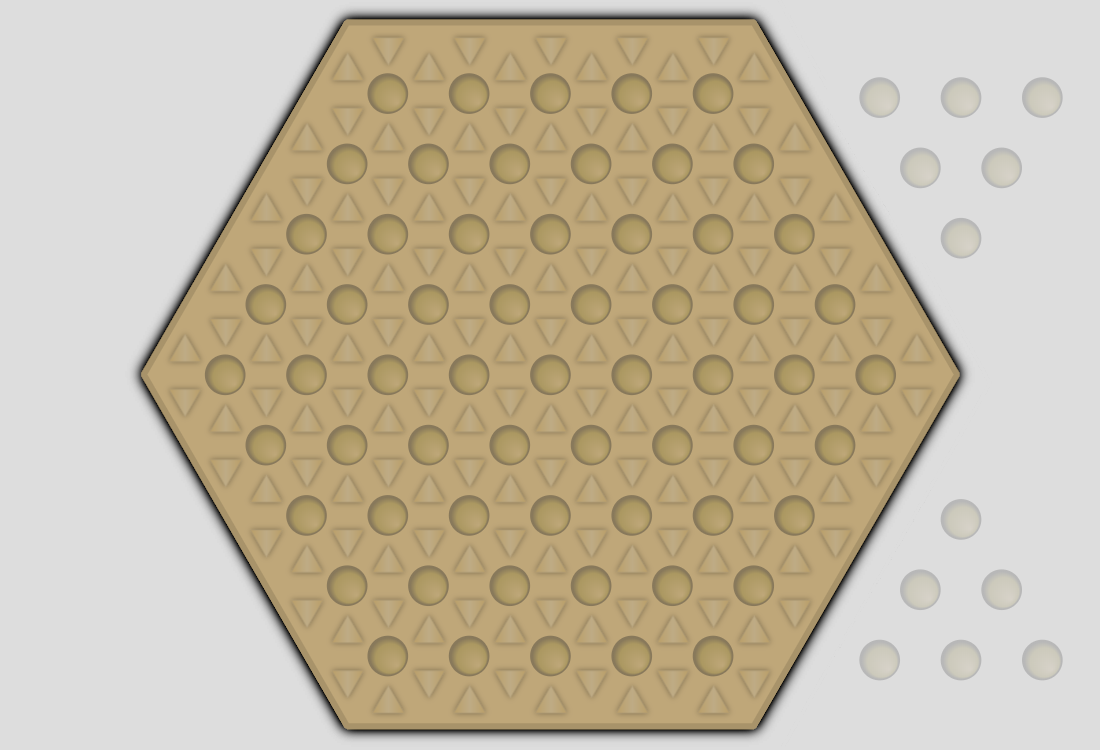
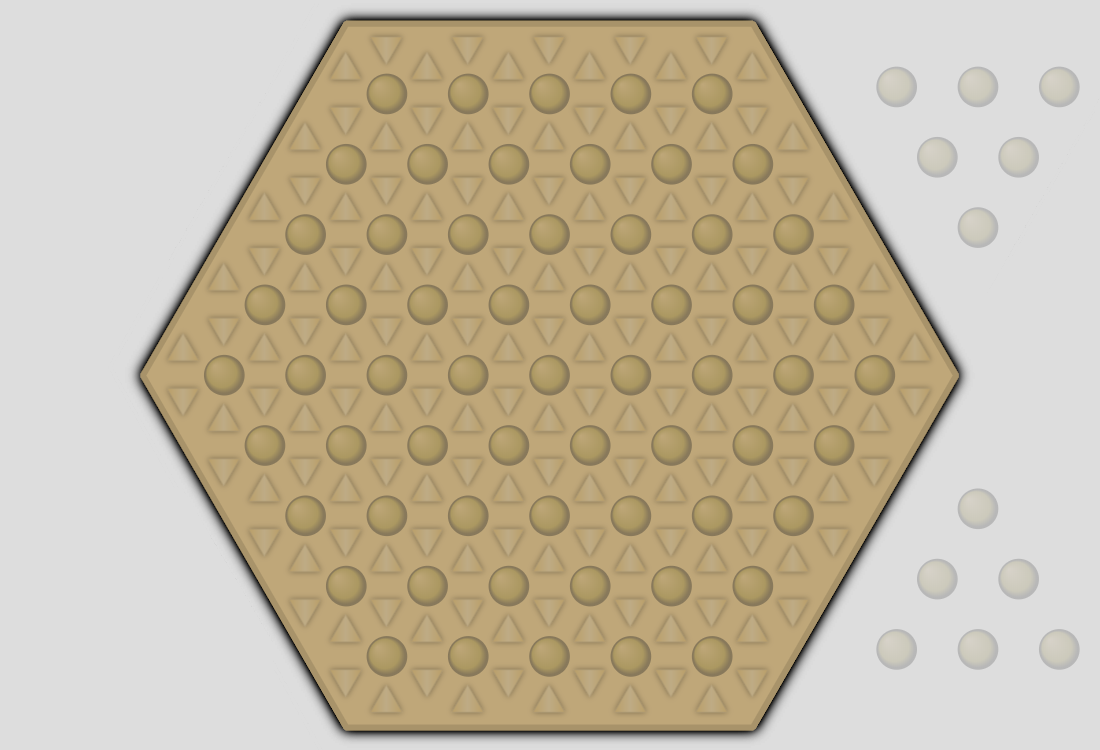
hello word pyglet and starting to fetch inital position

diff --git a/main.py b/main.py
@@ -1,6 +1,6 @@
 import pyglet
 import numpy as np
-
+from pprint import pprint
 
 class window(pyglet.window.Window):
 
@@ -22,25 +22,82 @@ class window(pyglet.window.Window):
 
         # set the background color to white
         pyglet.gl.glClearColor(1, 1, 1, 1)
-
         self.batch = pyglet.graphics.Batch()
-        self.bgs = []
 
+        # create 3 layers
+        self.background = pyglet.graphics.OrderedGroup(0)
+        self.midleground = pyglet.graphics.OrderedGroup(1)
+        self.foreground = pyglet.graphics.OrderedGroup(2)
+
+        self.sprites = []
+        board_image = pyglet.image.load('asset/board.png')
+        board_sprite = pyglet.sprite.Sprite(board_image, batch=self.batch, group=self.background)
+        self.sprites.append(board_sprite)
+
+        black_image = pyglet.image.load('asset/black.png')
+        black_sprite = pyglet.sprite.Sprite(black_image, batch=self.batch, group=self.midleground, x=0, y=0)
+        #self.sprites.append(black_sprite)
+
+        white_image = pyglet.image.load('asset/white.png')
+        white_sprite = pyglet.sprite.Sprite(white_image, batch=self.batch, group=self.midleground, x=320, y=100)
+        self.sprites.append(white_sprite)
 
     def on_draw(self):
         self.clear()
         self.batch.draw()
 
     def start(self):
-        pass
+
+        # [[-1. -1. -1. -1. -1. -1. -1. -1. -1. -1. -1.]
+        #  [-1. -1. -1. -1. -1.  4.  5.  6.  7.  8. -1.]
+        #  [-1. -1. -1. -1.  3.  4.  5.  6.  7.  8. -1.]
+        #  [-1. -1. -1.  2.  3.  4.  5.  6.  7.  8. -1.]
+        #  [-1. -1.  1.  2.  3.  4.  5.  6.  7.  8. -1.]
+        #  [-1.  0.  1.  2.  3.  4.  5.  6.  7.  8. -1.]
+        #  [-1.  0.  1.  2.  3.  4.  5.  6.  7. -1. -1.]
+        #  [-1.  0.  1.  2.  3.  4.  5.  6. -1. -1. -1.]
+        #  [-1.  0.  1.  2.  3.  4.  5. -1. -1. -1. -1.]
+        #  [-1.  0.  1.  2.  3.  4. -1. -1. -1. -1. -1.]
+        #  [-1. -1. -1. -1. -1. -1. -1. -1. -1. -1. -1.]]
+
+        board = np.zeros((11, 11))
+        # set border to void
+        board[0, :]=board[-1, :]=board[:,0]=board[:,-1] = -1
+        # set possible values
+        board[1:-1,1:-1] = np.tile(np.arange(9), (9, 1))
+        for i in range(4):
+            board[1+i, 1:4-i+1] = board[9-i, 6+i:-1] = -1
+
+
+        #                 (1, 5), (1, 6), (1, 7), (1, 8), (1, 9), 
+        #             (2, 4), (2, 5), (2, 6), (2, 7), (2, 8), (2, 9), 
+        #         (3, 3), (3, 4), (3, 5), (3, 6), (3, 7), (3, 8), (3, 9), 
+        #     (4, 2), (4, 3), (4, 4), (4, 5), (4, 6), (4, 7), (4, 8), (4, 9), 
+        # (5, 1), (5, 2), (5, 3), (5, 4), (5, 5), (5, 6), (5, 7), (5, 8), (5, 9), 
+        #     (6, 1), (6, 2), (6, 3), (6, 4), (6, 5), (6, 6), (6, 7), (6, 8), 
+        #         (7, 1), (7, 2), (7, 3), (7, 4), (7, 5), (7, 6), (7, 7), 
+        #             (8, 1), (8, 2), (8, 3), (8, 4), (8, 5), (8, 6), 
+        #                 (9, 1), (9, 2), (9, 3), (9, 4), (9, 5),
+        # 
+
+        boxs = [ (r, c) for r in range(11) for c in range(11) if board[r, c] != -1]
+
+        # Actions : possible 
+        left      = (0,  -1)
+        right     = (0,  +1)
+        upleft    = (-1,  0)
+        upright   = (-1, +1)
+        downleft  = (+1, -1)
+        downright = (+1,  0)
+
 
     def update(self, dt):
         pass
 
 
 if __name__ == '__main__':
-    
-    main = window(width=800, height=800)
+
+    main = window()
     main.start()
 
     pyglet.clock.schedule_interval(main.update, 1 / 60)

diff --git a/starting_position/main.py b/starting_position/main.py
@@ -1,0 +1,29 @@
+import urllib.request as urllib2
+from bs4 import BeautifulSoup
+
+url = "https://abaloneonline.wordpress.com/tag/starting-positions/"
+
+
+def download_image(pic_name, pic_url):
+
+    with open(pic_name, 'wb') as f:
+        r = urllib2.urlopen(pic_url)
+        if r.status == 200:
+            f.write(r.read())
+
+def main():
+    req = urllib2.urlopen(url)
+    if req.status == 200:
+    
+        soup = BeautifulSoup(req, "lxml")
+        imgs = soup.find('div', {'class':'entry-content'}).find_all('a')
+        for img in imgs:
+            pic_url = img['href']
+            pic_name = f"80/{pic_url.split('/')[-1]}"
+
+            print(pic_name)
+            download_image(pic_name, pic_url)
+
+if __name__ == '__main__':
+
+    main()
